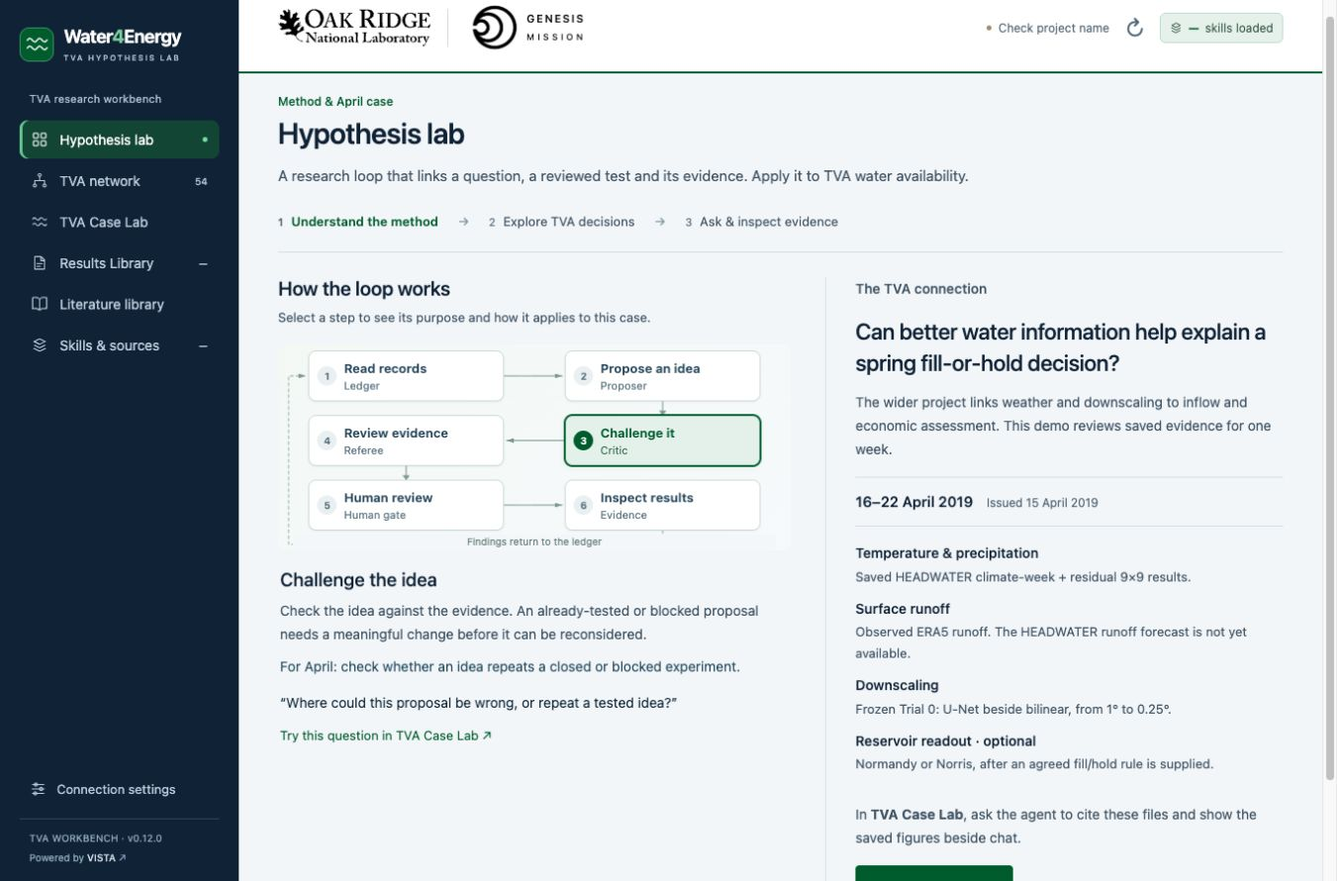
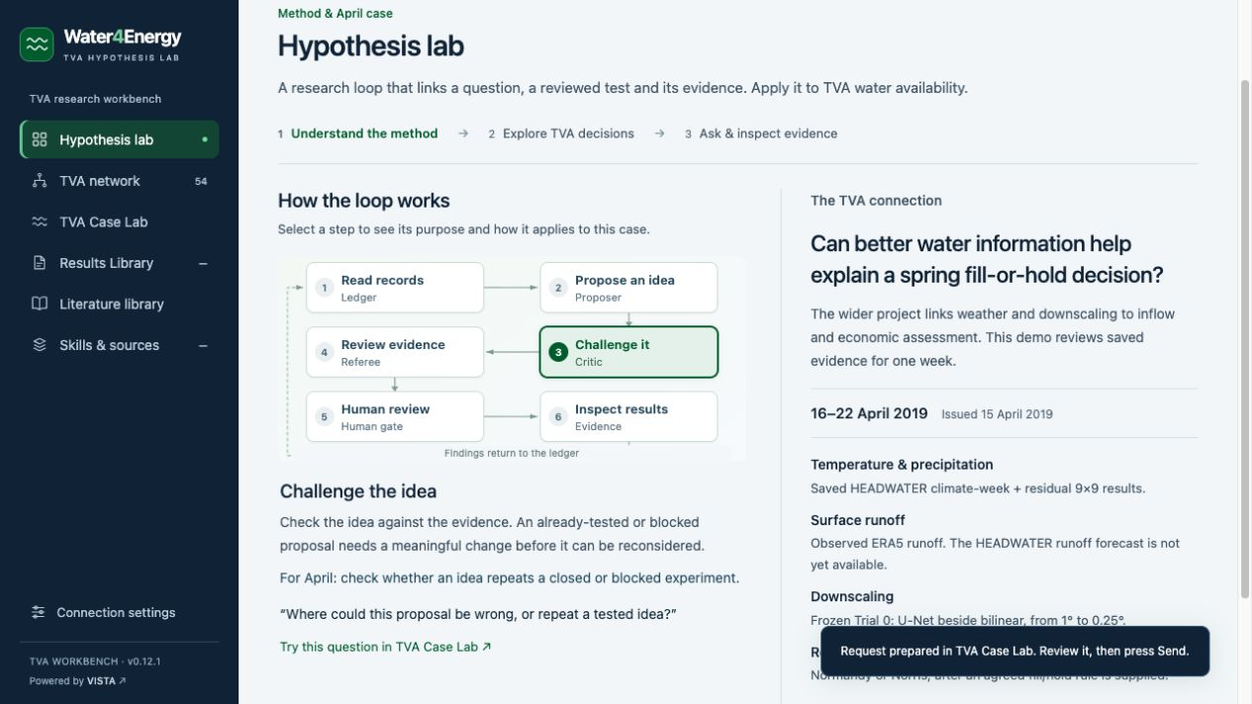
Remove technical source and readiness disclosures from the demo interface

diff --git a/public/index.html b/public/index.html
@@ -64,10 +64,10 @@
     <button class="nav-item" data-view="skills"><svg><use href="#i-skill"/></svg>Skills &amp; sources<span class="nav-count" id="skill-count">—</span></button>
   </nav>
   <div class="resource-list" id="sidebar-resources" hidden></div>
-  <div class="sidebar-bottom"><button id="connection-button"><svg><use href="#i-settings"/></svg>Connection settings</button><div class="powered"><span>TVA WORKBENCH · v0.12.0</span><span>Powered by <b>VISTA</b> ↗</span></div></div>
+  <div class="sidebar-bottom"><button id="connection-button"><svg><use href="#i-settings"/></svg>Connection settings</button><div class="powered"><span>TVA WORKBENCH · v0.12.1</span><span>Powered by <b>VISTA</b> ↗</span></div></div>
 </aside>
 <div class="app-shell">
-  <header class="topbar"><div class="brand-partners" aria-label="Oak Ridge National Laboratory and Genesis Mission"><a class="partner-ornl" href="https://www.ornl.gov/" target="_blank" rel="noopener noreferrer" aria-label="Oak Ridge National Laboratory"><img src="/assets/brand/ornl-logo.svg" alt="Oak Ridge National Laboratory" class="ornl-logo" width="156" height="38"></a><span class="partner-divider" aria-hidden="true"></span><a class="partner-genesis" href="https://www.energy.gov/undersecretaryforscience/genesis-mission/genesis-mission" target="_blank" rel="noopener noreferrer" aria-label="Genesis Mission"><img src="/assets/brand/genesis-mission-black.png" alt="Genesis Mission logo" width="61" height="63"><span>GENESIS<br><b>MISSION</b></span></a></div><div class="breadcrumb">TVA HYPOTHESIS LAB <span>/</span> <b id="view-breadcrumb">Hypothesis lab</b></div><div class="topbar-actions"><span id="connection-pill" class="connection-pill"><i></i> Checking VISTA</span><button class="icon-button" id="refresh-button" title="Refresh connection and results" aria-label="Refresh connection and results">↻</button><button class="skills-topbar" id="skills-topbar"><svg><use href="#i-skill"/></svg><span id="skills-topbar-count">—</span> skills loaded</button><span class="demo-version" title="TVA Workbench version">v0.12.0</span></div></header>
+  <header class="topbar"><div class="brand-partners" aria-label="Oak Ridge National Laboratory and Genesis Mission"><a class="partner-ornl" href="https://www.ornl.gov/" target="_blank" rel="noopener noreferrer" aria-label="Oak Ridge National Laboratory"><img src="/assets/brand/ornl-logo.svg" alt="Oak Ridge National Laboratory" class="ornl-logo" width="156" height="38"></a><span class="partner-divider" aria-hidden="true"></span><a class="partner-genesis" href="https://www.energy.gov/undersecretaryforscience/genesis-mission/genesis-mission" target="_blank" rel="noopener noreferrer" aria-label="Genesis Mission"><img src="/assets/brand/genesis-mission-black.png" alt="Genesis Mission logo" width="61" height="63"><span>GENESIS<br><b>MISSION</b></span></a></div><div class="breadcrumb">TVA HYPOTHESIS LAB <span>/</span> <b id="view-breadcrumb">Hypothesis lab</b></div><div class="topbar-actions"><span id="connection-pill" class="connection-pill"><i></i> Checking VISTA</span><button class="icon-button" id="refresh-button" title="Refresh connection and results" aria-label="Refresh connection and results">↻</button><button class="skills-topbar" id="skills-topbar"><svg><use href="#i-skill"/></svg><span id="skills-topbar-count">—</span> skills loaded</button><span class="demo-version" title="TVA Workbench version">v0.12.1</span></div></header>
   <main>
     <section id="view-introduction" class="view active">
       <div class="journey-heading"><div><p class="journey-kicker">Method &amp; April case</p><h1>Hypothesis lab</h1><p>A research loop that links a question, a reviewed test and its evidence. Apply it to TVA water availability.</p></div></div>
@@ -76,7 +76,6 @@
         <section class="method-explorer" aria-labelledby="method-title"><h2 id="method-title">How the loop works</h2><p class="method-instruction">Select a step to see its purpose and how it applies to this case.</p><div id="intro-workflow"></div><div id="intro-step-detail" aria-live="polite"></div></section>
         <section class="case-brief" aria-labelledby="case-brief-title"><p class="journey-kicker">The TVA connection</p><h2 id="case-brief-title">Can better water information help explain a spring fill-or-hold decision?</h2><p>The wider project links weather and downscaling to inflow and economic assessment. This demo reviews saved evidence for one week.</p><p class="case-week"><strong>16–22 April 2019</strong><span>Issued 15 April 2019</span></p><dl class="case-evidence-outline"><div><dt>Temperature &amp; precipitation</dt><dd>Saved HEADWATER climate-week + residual 9×9 results.</dd></div><div><dt>Surface runoff</dt><dd>Observed ERA5 runoff. The HEADWATER runoff forecast is not yet available.</dd></div><div><dt>Downscaling</dt><dd>Frozen Trial 0: U-Net beside bilinear, from 1° to 0.25°.</dd></div><div><dt>Reservoir readout · optional</dt><dd>Normandy or Norris, after an agreed fill/hold rule is supplied.</dd></div></dl><p class="case-brief-link">In <strong>TVA Case Lab</strong>, ask the agent to cite these files and show the saved figures beside chat.</p><div class="journey-actions"><button type="button" class="primary-button" data-journey-nav="network">Next: TVA network →</button><button type="button" class="text-button" data-journey-nav="workspace">Open TVA Case Lab ↗</button></div></section>
       </div>
-      <p class="journey-source">Case scope: <a href="https://github.com/daliwang/HEADWATER/blob/main/docs/TVA_AGENT_DEMO_PLAN_20261102.md" target="_blank" rel="noopener noreferrer">Dali’s April demonstration plan ↗</a>. The walkthrough reviews saved evidence; it does not run a new training or reservoir-operations simulation.</p>
     </section>
     <section id="view-workspace" class="view">
       <div class="hypothesis-lab-grid">
@@ -85,7 +84,7 @@
       </div>
     </section>
     <section id="view-network" class="view"><div class="page-heading"><div><div class="eyebrow">TVA WATER4ENERGY STUDY NETWORK</div><h1>TVA network</h1><p>Reservoirs, dams and gages give the water-for-energy question its decision context. Explore the study coverage, then take the April case into the lab.</p></div><span class="tag">54 study locations</span></div><section class="network-decisions" aria-labelledby="network-decisions-title"><div class="network-decision-heading"><h2 id="network-decisions-title">What decisions does water information support?</h2><button type="button" class="primary-button" data-journey-nav="workspace">Continue to TVA Case Lab →</button></div><dl class="network-decision-list"><div><dt>Store water or retain flood space?</dt><dd>Spring refill depends on expected rain and inflow, while reservoirs also need room for high water.</dd></div><div><dt>Maintain downstream water</dt><dd>Storage and releases support water supply, navigation, water quality and aquatic habitat.</dd></div><div><dt>Plan water for energy</dt><dd>Water availability affects hydropower opportunities and the cooling water needed by thermal plants.</dd></div><div><dt>Preserve cold-water resources</dt><dd>The TVA briefing connects spring storage at Norris to summer thermal concerns downstream.</dd></div></dl><div class="network-case-bridge"><p><strong>Our April entry point: headwater water quantity.</strong> Start with the saved weather and runoff evidence. A fill/hold readout for Normandy or Norris stays optional and needs an agreed rule; the network map does not select a live operating case.</p><button type="button" class="text-button" data-case-question="ledger">Prepare the first case question ↗</button></div><details class="network-context-sources"><summary>Decision-context sources</summary><p><a href="https://www.tva.com/environment/managing-the-river" target="_blank" rel="noopener noreferrer">TVA: managing the river for multiple benefits ↗</a> · <a href="https://www.tva.com/Environment/Lake-Levels/How-TVA-Manages-Water-Levels" target="_blank" rel="noopener noreferrer">TVA: managing water levels ↗</a> · <a href="https://github.com/daliwang/water4energy_projectPlan/blob/main/TVA_Task3_Briefing_Summary_20260915.md" target="_blank" rel="noopener noreferrer">Project briefing, 15 September 2026 ↗</a></p></details></section><div class="network-overview" id="network-overview"></div><section class="panel network-map-panel"><div class="panel-heading"><h2>Study-network overview</h2><span class="tag">12 headwater reservoirs</span></div><div id="network-map"></div><p class="network-map-note">Map markers are study-region reference points. They do not universally represent dam or gage coordinates.</p></section><section class="panel network-roster-panel"><div class="network-roster-header"><h2>Study locations</h2><label class="sr-only" for="site-search">Find a study location</label><input id="site-search" type="search" placeholder="Find a reservoir, dam or gage…"></div><div id="network-roster" class="network-roster"></div></section></section>
-    <section id="view-skills" class="view"><div class="page-heading"><div><div class="eyebrow">TVA PROJECT CAPABILITIES</div><h1>Project skills &amp; sources</h1><p>Compare the required lab skills with what is actually loaded into the selected VISTA project.</p></div><button class="secondary-button" id="skills-refresh">Refresh from VISTA ↻</button></div><div id="skills-summary" class="skills-summary"></div><div id="skills-list" class="skills-grid"></div><section class="panel workflow-skill-plan"><h2>Demo skill checklist</h2><p>Eight core skills support the walkthrough. The dam readout is optional and is counted separately.</p><div id="required-skills"></div></section><details id="demo-setup-details" class="panel demo-disclosure"><summary><span><strong>Project readiness &amp; sources</strong><small>Inspect the connected project, required skills and knowledge sources</small></span></summary><div class="demo-setup-content"><div class="project-readiness-actions"><p>Connection, skill readiness and the evidence behind this project.</p><button class="text-button" id="workflow-details">Demo scope ↗</button></div><div id="demo-readiness" class="demo-readiness" aria-label="Demo readiness" aria-live="polite"></div><div class="mode-banner live demo-connection-note" id="mode-banner"><span class="banner-icon"><svg><use href="#i-link"/></svg></span><span><strong>One VISTA project.</strong> Water4Energy-TVA-agent-loop supplies live agent responses from existing evidence.</span><button id="mode-info">Connection details ↗</button></div><div id="demo-sources"></div></div></details></section>
+    <section id="view-skills" class="view"><div class="page-heading"><div><div class="eyebrow">TVA PROJECT CAPABILITIES</div><h1>Project skills &amp; sources</h1><p>Compare the required lab skills with what is actually loaded into the selected VISTA project.</p></div><button class="secondary-button" id="skills-refresh">Refresh from VISTA ↻</button></div><div id="skills-summary" class="skills-summary"></div><div id="skills-list" class="skills-grid"></div><section class="panel workflow-skill-plan"><h2>Demo skill checklist</h2><p>Eight core skills support the walkthrough. The dam readout is optional and is counted separately.</p><div id="required-skills"></div></section></section>
     <section id="view-history" class="view"><div class="page-heading"><div><div class="eyebrow">PROJECT MEMORY</div><h1>Conversation history</h1><p>Reopen a saved conversation, its execution trail, and the resulting evidence.</p></div><div class="history-page-actions"><button type="button" class="secondary-button" id="history-back">← Back to TVA Case Lab</button><button class="primary-button compact" id="history-new"><svg><use href="#i-plus"/></svg>New conversation</button></div></div><div class="conversation-starting-tools"><section class="panel conversation-help-panel"><h2>Need a starting point?</h2><p>Choose a hint to open an editable question in TVA Case Lab.</p><div id="conversation-hints" aria-label="Conversation hints"></div></section><details id="demo-questions-details" class="panel demo-disclosure"><summary><span><strong>Walkthrough questions</strong><small>Six source-backed questions to explore with the agent</small></span></summary><section class="demo-question-panel"><div id="demo-questions"></div></section></details></div><div id="history-list" class="card-list"></div><details class="demo-conversation-details"><summary>Conversation artifacts <span>Displayed files, provenance and export</span></summary>
       <section class="panel results-panel" id="results-panel"><div class="results-heading"><div><div class="eyebrow">FROM THE SELECTED CONVERSATION</div><h2>Conversation artifacts.</h2><p id="results-description">Files explicitly displayed by the agent are collected here.</p></div><div class="results-actions"><span class="tag" id="result-mode-label">Live VISTA</span><button id="export-report" class="secondary-button"><svg><use href="#i-down"/></svg>Export brief</button></div></div><div class="result-toolbar"><div class="chart-site-tabs" id="chart-site-tabs"></div><div class="chart-site-picker"><label for="result-site">SITE</label><select id="result-site" aria-label="Result site"></select></div><div class="chart-legend"><span><i class="predicted"></i>Model prediction</span><span><i class="observed"></i>Observed</span></div></div><div class="chart-layout"><div><div class="chart-axis-label" id="chart-axis-label">WEEKLY PREDICTED VOLUME · MILLION m³</div><div id="result-chart" class="result-chart"></div></div><div class="result-stats" id="result-stats"></div></div><div class="result-footer"><span><svg><use href="#i-check"/></svg><span id="provenance-short">Waiting for agent-generated outputs</span></span><button class="text-button" id="provenance-button">View provenance <span>↗</span></button></div></section>
       </details></section>

diff --git a/public/literature-library.js b/public/literature-library.js
@@ -56,7 +56,7 @@
     if(!root||!catalog)return;
     const total=counts(catalog.entries),shelf=catalog.entries.filter(e=>e.repo==='daliwang/HEADWATER'&&e.pdfUrl);
     if(!root.querySelector('[data-literature-shell]')){
-      root.innerHTML=`<div data-literature-shell><div class="literature-summary" data-literature-summary></div><div class="literature-snapshot"><p><strong>HEADWATER shelf:</strong> ${shelf.length} tracked PDF files; repository notes flag ${shelf.filter(e=>e.status==='needs_repair').length} for repair. Pending citation extensions are listed separately. Repository presence does not establish VISTA indexing or scientific validity.</p><span>Snapshot checked ${escapeHTML(catalog.checkedOn||'date unavailable')}</span></div><div class="literature-toolbar"><label><span class="sr-only">Search literature</span><input type="search" data-literature-search placeholder="Search title, author, year or topic…" aria-label="Search literature"></label><button type="button" class="secondary-button" data-literature-reload>Reload catalog ↻</button></div><div class="literature-filters" role="group" aria-label="Literature availability">${[['all','All'],...Object.entries(STATUSES)].map(([key,label])=>`<button type="button" data-literature-filter="${key}" aria-pressed="${status===key}">${escapeHTML(label)} <span>${total[key]}</span></button>`).join('')}</div><p class="literature-result-count" data-literature-count role="status" aria-live="polite"></p><div class="literature-grid" data-literature-results></div><details class="literature-audit"><summary>Repository sources and snapshot</summary><p>Paper files open in GitHub using your existing repository permissions. This package includes metadata and links, not the PDF files. Reload catalog rereads this package’s saved snapshot.</p><ul>${(catalog.repos||[]).filter(r=>REPOSITORIES.has(r.repo)&&/^[a-f0-9]{40}$/.test(r.commit||'')).map(r=>`<li><a href="https://github.com/${r.repo}/tree/${r.commit}" target="_blank" rel="noopener noreferrer">${escapeHTML(r.repo)} ↗</a><code>${r.commit.slice(0,12)}</code></li>`).join('')}</ul>${catalog.rejected?`<p>${catalog.rejected} invalid catalog record${catalog.rejected===1?' was':'s were'} excluded.</p>`:''}</details></div>`;
+      root.innerHTML=`<div data-literature-shell><div class="literature-summary" data-literature-summary></div><div class="literature-snapshot"><p><strong>HEADWATER shelf:</strong> ${shelf.length} tracked PDF files; repository notes flag ${shelf.filter(e=>e.status==='needs_repair').length} for repair. Pending citation extensions are listed separately. Repository presence does not establish VISTA indexing or scientific validity.</p><span>Snapshot checked ${escapeHTML(catalog.checkedOn||'date unavailable')}</span></div><div class="literature-toolbar"><label><span class="sr-only">Search literature</span><input type="search" data-literature-search placeholder="Search title, author, year or topic…" aria-label="Search literature"></label><button type="button" class="secondary-button" data-literature-reload>Reload catalog ↻</button></div><div class="literature-filters" role="group" aria-label="Literature availability">${[['all','All'],...Object.entries(STATUSES)].map(([key,label])=>`<button type="button" data-literature-filter="${key}" aria-pressed="${status===key}">${escapeHTML(label)} <span>${total[key]}</span></button>`).join('')}</div><p class="literature-result-count" data-literature-count role="status" aria-live="polite"></p><div class="literature-grid" data-literature-results></div></div>`;
       const search=root.querySelector('[data-literature-search]');search.value=query;
       search.addEventListener('input',()=>{query=search.value;renderResults();});
       root.querySelectorAll('[data-literature-filter]').forEach(button=>button.addEventListener('click',()=>{status=button.dataset.literatureFilter;renderResults();}));

diff --git a/public/literature-library.css b/public/literature-library.css
@@ -20,7 +20,6 @@
 .literature-origin{font-size:12px;line-height:1.6;color:var(--muted);margin:4px 0;overflow-wrap:anywhere}.literature-origin code{font-size:11px}
 .literature-tags{font-size:11px;line-height:1.5;color:var(--muted);margin:4px 0}
 .literature-note{font-size:12px;line-height:1.6;color:var(--text-secondary);margin:5px 0}.needs_repair .literature-note{color:#8a6b34}
-.literature-audit{font-size:11px;line-height:1.8;color:#6a8190;margin:0 0 25px;border:1px solid #dbe5eb;border-radius:8px;background:#fff;padding:14px 18px}.literature-audit summary{cursor:pointer;color:#426276;font-weight:550}.literature-audit p{font-size:10px}.literature-audit ul{padding-left:17px}.literature-audit li{margin:7px 0;overflow-wrap:anywhere}.literature-audit a{color:var(--ornl-green)}.literature-audit code{font-size:9px;margin-left:12px;color:#7d91a0}
 @media(max-width:640px){.literature-summary{grid-template-columns:repeat(2,minmax(0,1fr));gap:10px}.literature-summary>div{padding:12px}.literature-summary strong{font-size:23px}.literature-summary span{font-size:11px}.literature-snapshot{flex-direction:column;align-items:flex-start;gap:7px;padding:12px}.literature-snapshot>span{max-width:none;font-size:10px}.literature-toolbar{align-items:stretch}.literature-toolbar input{font-size:13px;padding:11px}.literature-toolbar .secondary-button{font-size:11px;padding:8px}.literature-grid{padding:0 13px}.literature-row-heading{flex-wrap:wrap;gap:3px}.literature-card h2{font-size:14px}.literature-status{font-size:10px}.literature-filters button{font-size:11px;padding:7px 8px}}
 .literature-summary{gap:0;margin:18px 0 14px;border-bottom:1px solid var(--line);padding-bottom:15px}.literature-summary>div{border:0;border-radius:0;background:none;padding:0 18px}.literature-summary>div:first-child{padding-left:0}.literature-summary>div+div{border-left:1px solid var(--line)}.literature-summary strong{font-size:23px}.literature-summary span{font-size:12px;margin-top:5px}.literature-snapshot{background:none;border:0;border-radius:0;padding:0 0 14px;margin-bottom:8px}.literature-snapshot p{font-size:12px}.literature-toolbar input{font-size:14px}.literature-toolbar .secondary-button{font-size:12px}.literature-filters button{font-size:12px;border-radius:4px}
 @media(max-width:640px){.literature-summary>div:nth-child(3){border-left:0;padding-left:0}.literature-summary{row-gap:16px}}

diff --git a/public/case-journey.css b/public/case-journey.css
@@ -13,7 +13,6 @@
 .case-week{display:flex;align-items:baseline;gap:7px 14px;flex-wrap:wrap;padding:12px 0;border-top:1px solid var(--line);border-bottom:1px solid var(--line)}.case-week strong{font-size:15px;color:var(--genesis-navy);font-weight:550}.case-week span{font-size:12px;color:var(--muted)}
 .case-evidence-outline{margin:0 0 17px}.case-evidence-outline>div{padding:0 0 11px}.case-evidence-outline dt{font-size:14px;font-weight:550;line-height:1.6;color:var(--genesis-navy)}.case-evidence-outline dd{font-size:13px;color:var(--text-secondary);line-height:1.65;margin:2px 0 0}
 .case-brief .case-brief-link{font-size:14px}.journey-actions{display:flex;align-items:center;gap:14px;flex-wrap:wrap}.journey-actions .primary-button{font-size:13px}.journey-actions .text-button{font-size:13px}
-.journey-source{font-size:12px;line-height:1.8;color:var(--muted);margin:0 0 26px;border-top:1px solid var(--line);padding-top:15px}.journey-source a{color:var(--ornl-green);text-decoration:none}.journey-source a:hover{text-decoration:underline}
 .network-decisions{margin-bottom:23px}.network-decision-heading{display:flex;justify-content:space-between;gap:20px;align-items:center;margin-bottom:14px}.network-decision-heading h2{font-size:19px;line-height:1.5;color:var(--genesis-navy);font-weight:550}.network-decision-heading .primary-button{font-size:12px;flex-shrink:0}
 .network-decision-list{display:grid;grid-template-columns:repeat(2,minmax(0,1fr));gap:15px 30px;margin:0 0 16px}.network-decision-list>div{border-top:1px solid var(--line);padding-top:12px}.network-decision-list dt{font-size:15px;line-height:1.5;font-weight:550;color:var(--genesis-navy)}.network-decision-list dd{font-size:13px;line-height:1.7;color:var(--text-secondary);margin:5px 0 0}
 .network-case-bridge{display:flex;align-items:center;gap:20px;border-left:3px solid var(--ornl-green);padding:1px 0 1px 14px}.network-case-bridge p{font-size:13px;line-height:1.7;color:var(--text-secondary);margin:0}.network-case-bridge strong{color:var(--ink);font-weight:550}.network-case-bridge .text-button{font-size:12px;min-width:150px;text-align:left;line-height:1.7}

diff --git a/public/app.js b/public/app.js
@@ -524,7 +524,6 @@ $$('.nav-item').forEach(el=>el.addEventListener('click',()=>switchView(el.datase
 $('.brand').addEventListener('click',event=>{event.preventDefault();switchView('introduction');});
 $('#skills-topbar').addEventListener('click',()=>switchView('skills'));
 $('#skills-refresh').addEventListener('click',async()=>{await refreshSkills();await refreshKnowledge();await refreshDemo();});
-$('#workflow-details').addEventListener('click',showWorkflowDetails);
 $('#demo-setup-button').addEventListener('click',showSettings);
 $('#view-case-figures').addEventListener('click',openCaseFigures);
 $('#site-search').addEventListener('input',renderNetworkRoster);
@@ -539,7 +538,6 @@ $('#settings-form').addEventListener('submit',async event=>{
   catch(error){$('#settings-status').textContent=error.message;}finally{button.disabled=false;}
 });
 $('#activity-toggle').addEventListener('click',()=>{const log=$('#activity-log');log.hidden=!log.hidden;$('#activity-toggle').setAttribute('aria-expanded',String(!log.hidden));});
-$('#mode-info').addEventListener('click',showSettings);
 $('#provenance-button').addEventListener('click',showProvenance);
 $('#export-report').addEventListener('click',exportBrief);
 $('#lab-history').addEventListener('click',()=>switchView('history'));

diff --git a/server.py b/server.py
@@ -23,7 +23,7 @@ from urllib.parse import parse_qs, quote, unquote, urlsplit
 import webbrowser
 
 APP_ROOT = Path(__file__).resolve().parent
-VERSION = "0.12.0"
+VERSION = "0.12.1"
 MAX_BODY = 64 * 1024 * 1024
 DEFAULT_CONFIG = {"backend_url": "http://127.0.0.1:8001", "project": "Water4Energy-TVA-agent-loop"}
 PROJECT_PATTERN = re.compile(r"[A-Za-z0-9_ .-]{2,80}\Z")

diff --git a/VERIFICATION.md b/VERIFICATION.md
@@ -1,26 +1,11 @@
-# v0.12.0 verification
+# v0.12.1 verification
 
-Verified November 9, 2026 on macOS. Hypothesis lab is now the method/case introduction; TVA network adds decision context; TVA Case Lab contains guided chat and the existing evidence workspace. Science and backend contracts are unchanged.
+Verified November 10, 2026 on macOS. This presentation-only patch removes the introduction's case-scope footer, the Literature library repository/snapshot disclosure and the Skills page project-readiness/source disclosure. Their obsolete click bindings and unused footer/audit styles were removed. Source metadata and case/readiness validation remain in code.
 
-## Automated checks
+- All **87 JavaScript regression checks passed**. No new tests were added for the static removals. JavaScript syntax, HTML nesting/IDs/assets and whitespace were checked.
+- Browser inspection confirmed no introduction scope footer, no repository-audit disclosure or text, and no project-readiness panel. Literature still showed 42 records. The skills summary and eight-core-plus-optional-dam checklist loaded correctly.
+- The case starter still prepared its guarded ledger request without sending a message. Method exploration, network, Results Library, History, Case Lab and Connection settings remained navigable. No browser console errors were observed.
+- The real local VISTA responded but the named TVA project remained absent. Package previews show that actual state. No agent, scientific process, cluster operation or settings mutation was performed during verification.
+- The fresh extracted ZIP launcher is checked for version, project, new assets, manifest hashes and same-instance reopening. The prior 40 Python checks were passed for v0.12.0; this patch changes only presentation and the version identifier, so the full backend suite was not repeated.
 
-- **40 Python checks passed:** adapter/project knowledge, loopback launch/instance identity and study catalog with isolated mock servers.
-- **87 JavaScript checks passed:** retained source/case validation, scoped/coalesced reads, session races, figure following/selection, composer bounds, compact libraries and literature contracts. New checks cover guarded case questions, independent intro exploration, explicit preparation versus navigation, allowed destinations and a collapsed Case Lab workflow reference across conversation resets.
-- HTML nesting, unique IDs, local script/style references, JavaScript syntax and whitespace were checked. The live rendered page had no duplicate IDs, including the distinct introduction and reference-diagram SVG markers.
-
-## Browser checks
-
-- Initial navigation opens Hypothesis lab with the interactive method and fixed April case described together. Selecting Critic explains its case relevance. Try this question navigates to TVA Case Lab, prepares the guarded Critic request and does not submit a message. The live topic remains independent of an intro selection.
-- TVA network is second, followed by TVA Case Lab, Results Library, Literature library and Skills & sources. Next/Continue controls connect the pages. Prepare the first case question opens the Case Lab ledger request without starting a turn or changing the scientific case. Brand returns to the introduction.
-- Case Lab retains full-height left chat and right evidence. Three welcome questions and the persistent six-question disclosure are available. The runoff question prepares the guarded ERA5 explanation, closes the disclosure and leaves the transcript unchanged. Questions remain available after a saved conversation replaces the welcome.
-- Opening an isolated saved QA conversation restored four transcript messages; its checked temperature image enlarged with original/source links. Existing images remained conspicuously synthetic QA fixtures outside the release. No real agent, model, training or compute request was submitted.
-- At 1366×900, an expanded question disclosure plus maximum composer height preserved about 100px of transcript and visible Send. At 1280×720 the maximum composer still preserved about 100px of transcript with Send inside the viewport. At 390×844 both introduction and Case Lab had no horizontal page overflow.
-- Network, skills, Results Library, Literature, History, Back to TVA Case Lab and Connection settings were inspected. No browser console errors were observed. The real backend responded but the named TVA project was absent; previews show the actual state. The introduction remains usable without that live project.
-
-## Sources and package
-
-General decision context links to official TVA river-management/water-level guidance checked on 9 November 2026. Case scope and the Norris cold-water concern follow Dali's previously supplied demo plan and briefing. WORKFLOW_NOTES.md records those sources. The existing 42-record literature snapshot is unchanged; paper bytes are not bundled.
-
-The archive checks ZIP integrity, all manifest hashes and launcher modes. A fresh extracted copy is launched through its actual macOS shell launcher, checked for version/project/new assets and reopened to confirm exact-instance reuse. An older listener on port 8765 remains untouched. Owned QA listeners were stopped after checks.
-
-Saved VISTA connection settings are preserved on installed updates. No real project, skill, knowledge base, training, inference, ERA5 download or HPC job was created or changed. Windows/Linux launchers remain included; desktop launch verification was on macOS.
+Owned preview listeners were stopped, and the older 8765 listener was left untouched. Installed updates preserve the saved VISTA connection and back up the previous source. The literature snapshot, scientific artifact guards and laptop-only backend design remain as documented in VISTA_SETUP.md and BACKEND.md.

diff --git a/BACKEND.md b/BACKEND.md
@@ -17,7 +17,7 @@ The wrapper binds only to `127.0.0.1`. It is intended for presenting from the sa
 
 ## Browser contract
 
-- `GET /api/health`: `{app:"tva-workbench",version:"0.12.0",instance_id,connection_id}`. Lightweight instance identification.
+- `GET /api/health`: `{app:"tva-workbench",version:"0.12.1",instance_id,connection_id}`. Lightweight instance identification.
 - `GET /api/config`: `{backend_url,project}`.
 - `POST /api/config` or `PUT /api/config`: accepts only `backend_url` and/or `project`; returns the updated configuration. Backend URLs must be local HTTP endpoints without a path, query, credentials, or fragment.
 - `GET /api/status`: `{app,version,backend_url,project,connected,project_found,skills,resources,detail}`. Cached for 15 seconds; `?fresh=1` bypasses the wrapper cache for an explicit connection refresh. VISTA still owns its facility-status cache. `connected` means VISTA responded; `project_found` means its selected project exists. `resources` contains `{id,name,state,message,checked_at,planned}` for Odo, Frontier, Lux and planned CCSI. Facility readiness is distinct from TVA skill/runtime validation.
@@ -53,11 +53,11 @@ HTTP requests and file uploads have a 64 MiB limit. Upstream request inactivity 
 
 CCSI is a display placeholder for a future resource adapter. Adding its name to the interface does not register it in VISTA, authenticate to the node, or make existing Frontier-only scripts compatible with it. Similarly, Odo and Lux resource availability does not imply the TVA inference skill supports those clusters.
 
-The adapter reads VISTA's nonsecret `/settings/hpc-status` route for resource cards. It never proxies generic `/settings` routes. Skill catalog reads use the separate adapter-owned `/api/skills` endpoint; raw global `/api/vista/skills` and skill import/edit/delete/publish routes stay blocked. Adding, loading or removing skills remains in VISTA. The installed API reviewed for this package was VISTA 0.2.4; VISTA is pre-1.0, so future releases may need adapter changes. The Workbench package version is 0.12.0.
+The adapter reads VISTA's nonsecret `/settings/hpc-status` route for resource cards. It never proxies generic `/settings` routes. Skill catalog reads use the separate adapter-owned `/api/skills` endpoint; raw global `/api/vista/skills` and skill import/edit/delete/publish routes stay blocked. Adding, loading or removing skills remains in VISTA. The installed API reviewed for this package was VISTA 0.2.4; VISTA is pre-1.0, so future releases may need adapter changes. The Workbench package version is 0.12.1.
 
 ## Verification
 
-Run `python3 -m unittest discover -s tests -v`. The 23 adapter and project-knowledge checks use an in-process fake VISTA server. They cover forwarding, SSE flush behavior, multipart uploads, project scope, status refresh, traversal prevention, origin/host checks, loopback-only configuration, refusal of upstream redirects, and Skills scope/cache/offline/missing-detail behavior. They do not run a real VISTA agent or submit an HPC job. During the v0.12.0 read-only check, the local `Water4Energy-TVA-agent-loop` project was absent. This package reports that missing state and does not create or substitute a project.
+Run `python3 -m unittest discover -s tests -v`. The 23 adapter and project-knowledge checks use an in-process fake VISTA server. They cover forwarding, SSE flush behavior, multipart uploads, project scope, status refresh, traversal prevention, origin/host checks, loopback-only configuration, refusal of upstream redirects, and Skills scope/cache/offline/missing-detail behavior. They do not run a real VISTA agent or submit an HPC job. During the v0.12.1 read-only check, the local `Water4Energy-TVA-agent-loop` project was absent. This package reports that missing state and does not create or substitute a project.
 
 ## Results Library
 

diff --git a/README.md b/README.md
@@ -1,4 +1,4 @@
-# TVA Workbench · Hypothesis-lab demo · v0.12.0
+# TVA Workbench · Hypothesis-lab demo · v0.12.1
 
 A local ORNL/Genesis interface for Dali's HEADWATER hypothesis-lab walkthrough. The case is fixed: **16–22 April 2019, issued 15 April 2019**. VISTA supplies the live agent, loaded skills, knowledge bases and saved files.
 
@@ -6,7 +6,7 @@ A local ORNL/Genesis interface for Dali's HEADWATER hypothesis-lab walkthrough. 
 
 ## Launch
 
-Extract the complete **TVA-Workbench-v0.12.0.zip**, then double-click **Start TVA Workbench.command** inside its `TVA-Workbench` folder on macOS. Keep the Terminal window open. Windows uses **Start TVA Workbench.bat** with Python 3.9+; Linux uses `sh start.sh`. Terminal users can run `python3 server.py`.
+Extract the complete **TVA-Workbench-v0.12.1.zip**, then double-click **Start TVA Workbench.command** inside its `TVA-Workbench` folder on macOS. Keep the Terminal window open. Windows uses **Start TVA Workbench.bat** with Python 3.9+; Linux uses `sh start.sh`. Terminal users can run `python3 server.py`.
 
 The launcher prints the version, folder and actual local URL, and opens a browser tab. It prefers port 8765. If another copy occupies that port, this version uses an available loopback port without stopping the other process. Opening this same copy again reuses its validated running instance. Follow the printed URL; an older tab on port 8765 may belong to another version. Control+C stops this wrapper.
 
@@ -25,7 +25,7 @@ The main tabs follow this order:
 | **TVA Case Lab** | Ask a case question and inspect cited files and figures beside the chat |
 | **Results Library** | Browse saved output files in the compact results list |
 | **Literature library** | Find source papers and project references in compact reading rows |
-| **Skills & sources** | Inspect the selected VISTA project's actual capabilities and source readiness |
+| **Skills & sources** | Inspect loaded project skills and the core capability checklist |
 
 TVA network introduces spring storage versus flood space, downstream water needs, energy-water connections and the cold-water concern recorded in the project briefing. It links to official TVA river-management guidance and the 15 September briefing. The 54-location catalog is study coverage, with 12 headwater reservoirs and 42 other locations; its reference markers are not a complete operational routing model. Selecting a background location does not change the April case or enable a dam policy. Headwaters start expanded, the other locations collapsed; search reveals matches and clearing it restores your expansion preferences.
 
@@ -93,6 +93,7 @@ The wrapper stores only backend/project selection and validated launch-port meta
 | v0.10.0 | Quiet two-column research desk, single welcome and focused evidence viewer |
 | v0.11.0 | Restored brand colors and interactive workflow, compact libraries and lab History |
 | v0.12.0 | Separate method/case introduction, TVA decision context and guided TVA Case Lab |
+| v0.12.1 | Remove the introduction footer and two technical source/readiness disclosures |
 
 Earlier versions remain in Git history. Clone `https://github.com/cheny-4/tva-workbench.git` or use GitHub's Code → Download ZIP. GitHub hosts source; the Python/VISTA app runs on the laptop.
 
